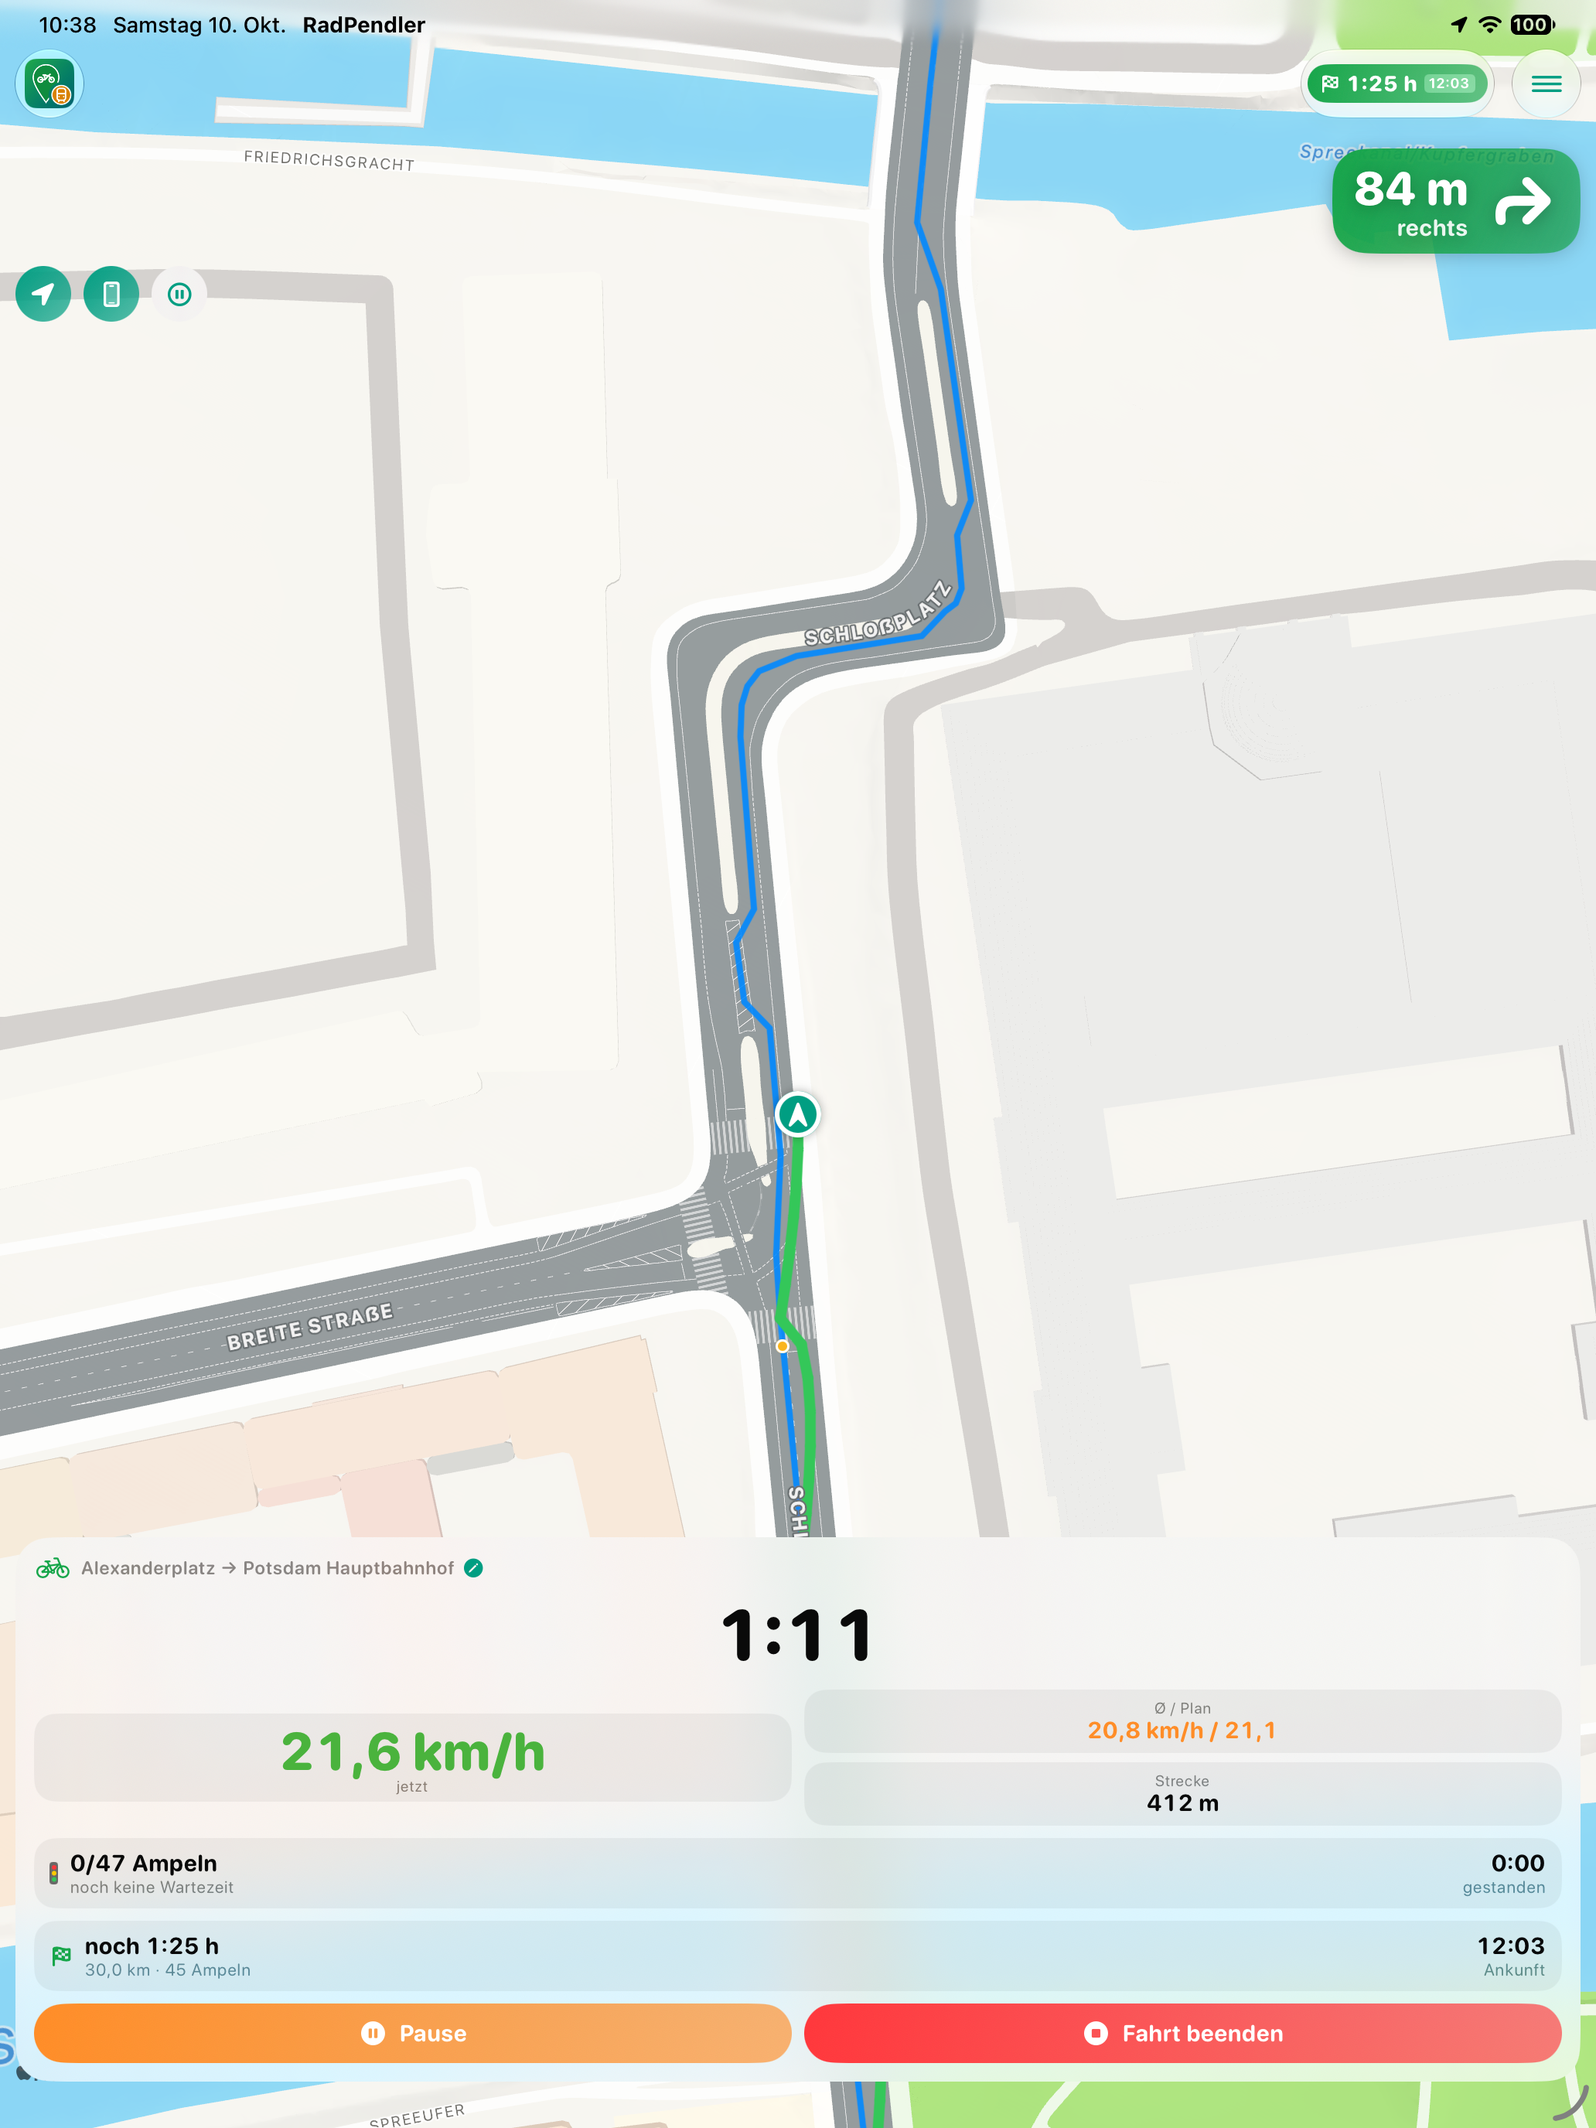
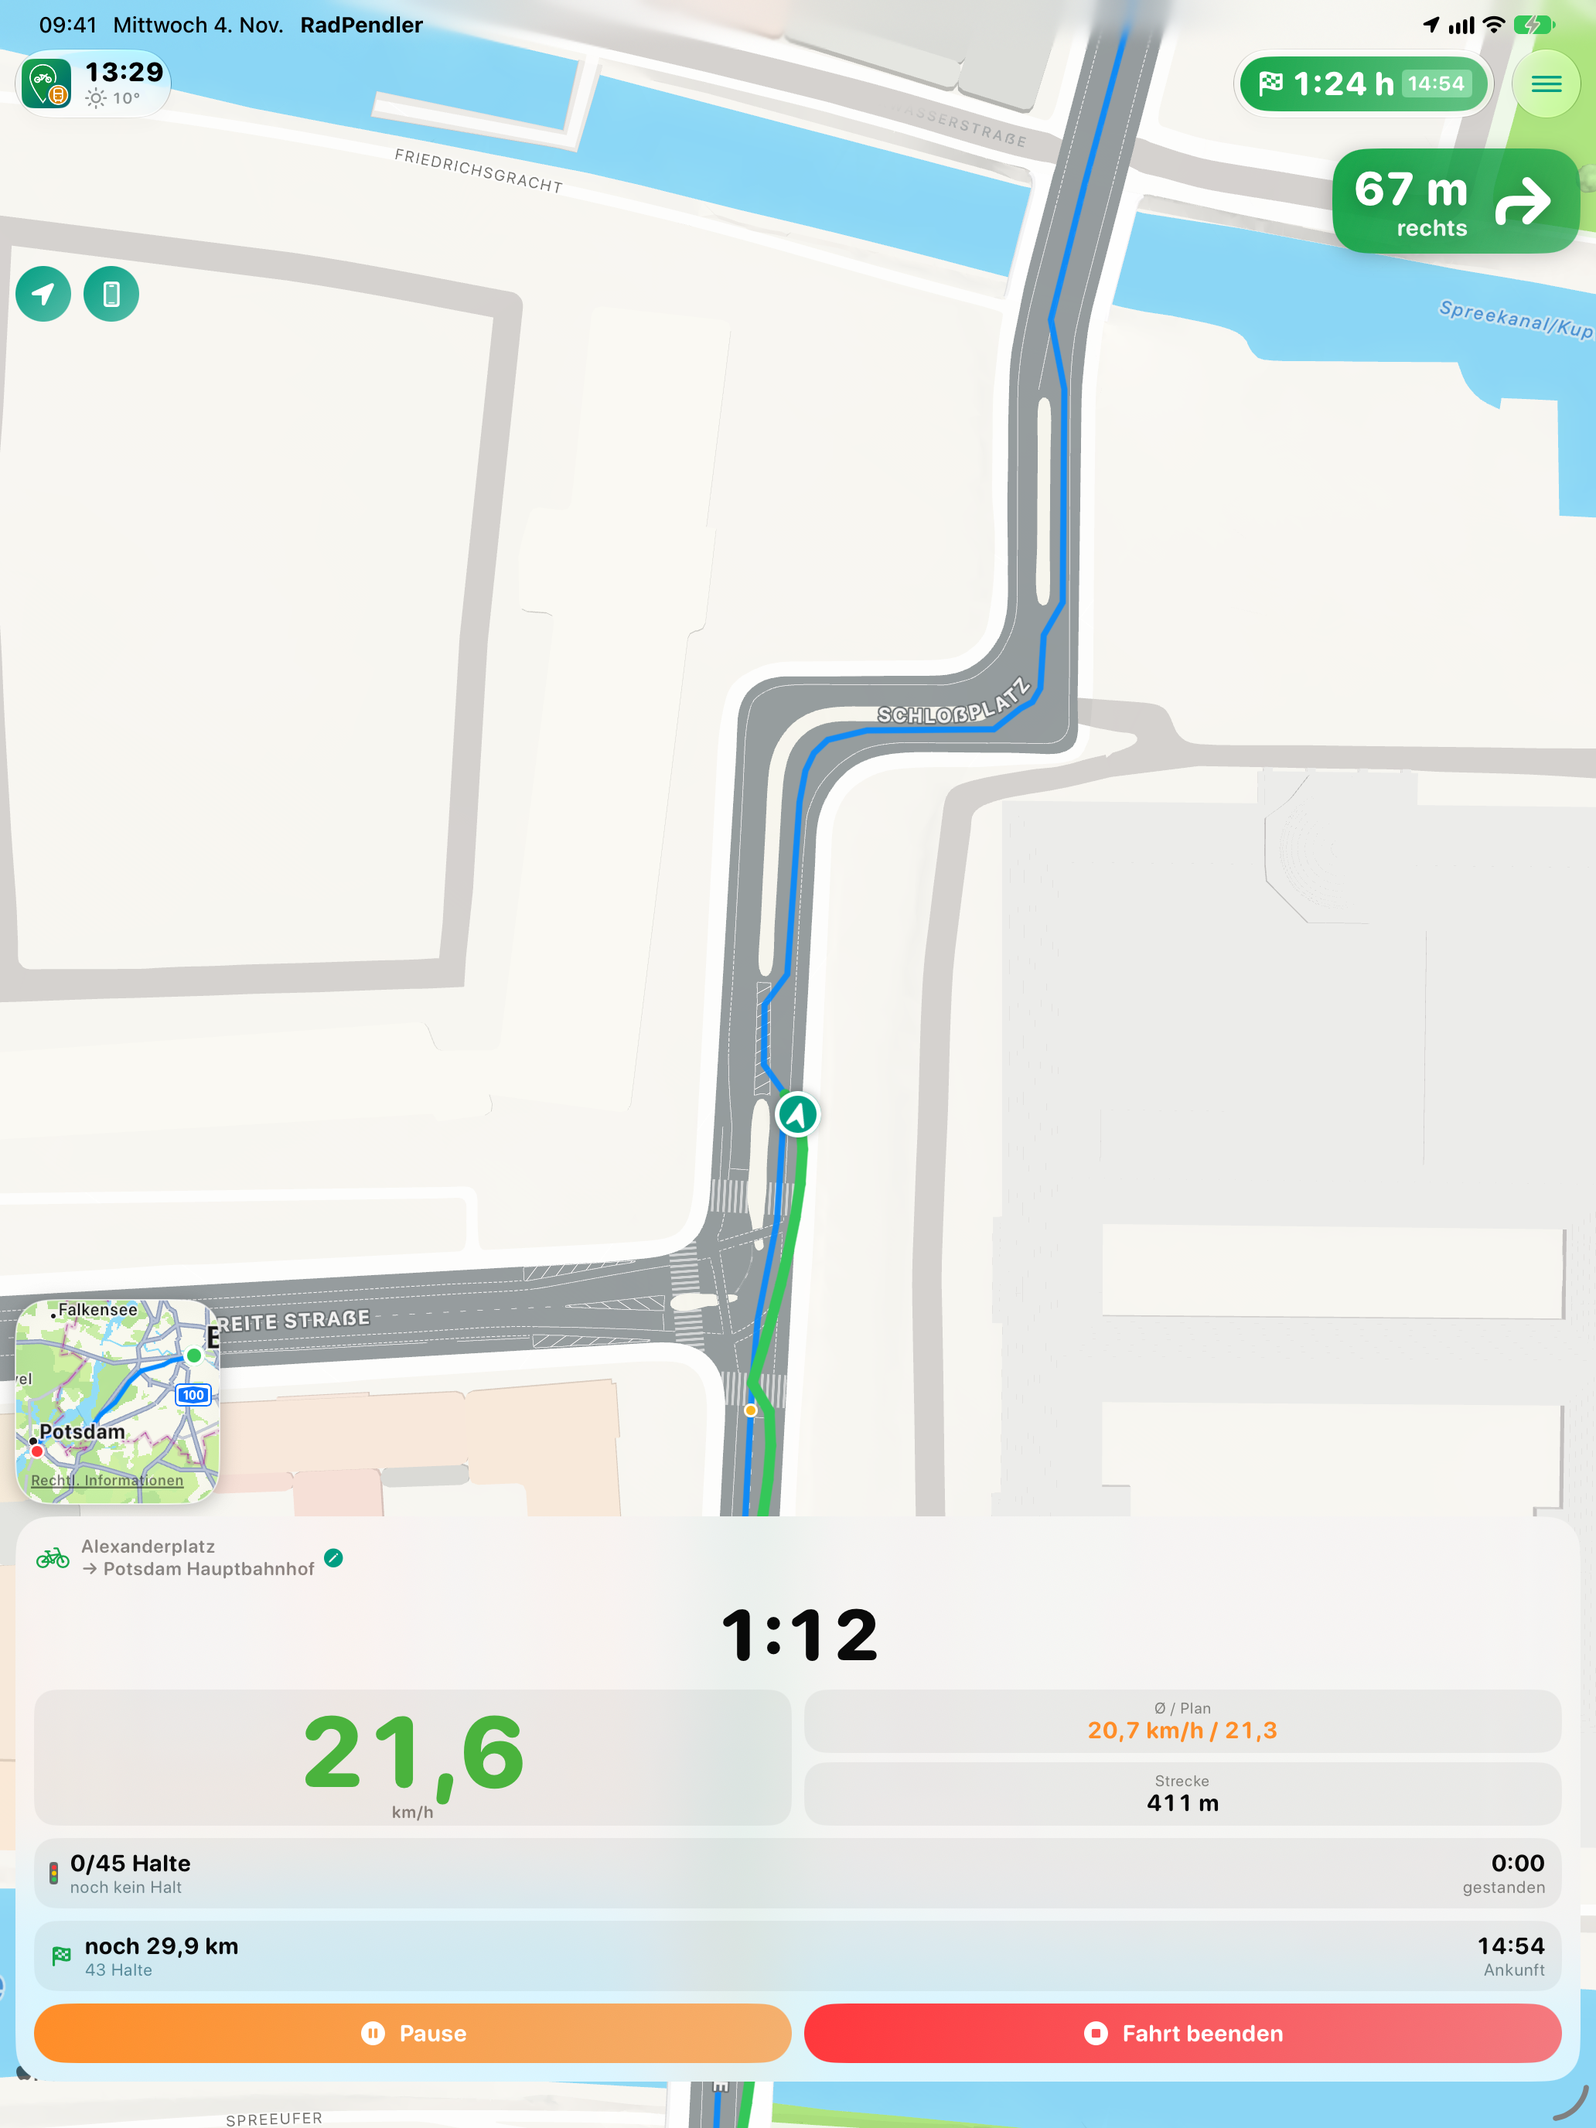
Store: Paket für 1.26
./dev shots (tools/store_shots.sh): iPhone 6,3″ und 6,9″, iPad 13″ auf eigenen RP-Simulatoren;
6,5″-Satz entfällt. Was ist neu 1.26 (seit Store-Fassung 1.21), Beschreibung unter 4000,
Fußweg/Leihroller in beiden Sprachen, Einreichungs-Checkliste 1.26,
appstore/pages/veroeffentlichen.sh.

diff --git a/tools/store_package.py b/tools/store_package.py
@@ -14,7 +14,7 @@ from pathlib import Path
 ROOT = Path(__file__).resolve().parent.parent
 META = (ROOT / "appstore/metadata.md").read_text(encoding="utf-8")
 LIMITS = {"name": 30, "untertitel": 30, "werbetext": 170, "beschreibung": 4000, "keywords": 100, "was-ist-neu": 4000}
-SHOTS = {"iphone-6.3": (1206, 2622), "iphone-6.5": (1284, 2778), "ipad-13": (2064, 2752), "watch-46": (416, 496)}
+SHOTS = {"iphone-6.3": (1206, 2622), "iphone-6.9": (1320, 2868), "ipad-13": (2064, 2752), "watch-46": (416, 496)}
 
 
 def setting(key):
@@ -121,8 +121,8 @@ ist eine Datei zum Kopieren, die Bilder liegen in der Reihenfolge ihrer Dateinum
 2. Je Sprache (Deutsch, Englisch USA): Werbetext, Beschreibung, Keywords und „Neue Funktionen“
    aus `de/` bzw. `en/` einfügen. Name und Untertitel nur, wenn sie sich geändert haben.
 3. Screenshots: die alten im Schacht löschen, dann `screenshots/iphone-6.3/` (1206 × 2622) in den
-   Schacht „iPhone 6,1″ oder 6,3″“ — bietet App Store Connect stattdessen 6,5″ an, dorthin
-   `screenshots/iphone-6.5/` (1284 × 2778). Ein Satz genügt, die Größe muss zum Schacht passen.
+   Schacht „iPhone mit Dynamic Island (mittleres Display)“ — verlangt App Store Connect den großen,
+   dorthin `screenshots/iphone-6.9/` (1320 × 2868). Die Größe muss zum Schacht passen.
    `screenshots/ipad-13/` in den 13″-Schacht, `screenshots/watch-46/` zur Apple Watch.
    Bilder für das iPhone Duo sind erst für Einreichungen ab April 2027 Pflicht.
 4. „Kopfzeile und Suchergebnisse“ leer lassen — freiwillige Werbeflächen.

diff --git a/appstore/metadata.md b/appstore/metadata.md
@@ -10,7 +10,23 @@ Fassung von Name, Untertitel, Keywords und Beschreibung steht am Ende und
 gehört in die Lokalisierung **Englisch (USA)**, damit die Seite in Stores
 außerhalb Deutschlands nicht leer aussieht.
 
-## Einreichungs-Checkliste (1.18, Build 58 — die einzureichende Fassung)
+## Einreichungs-Checkliste (1.26, Build 66 — die einzureichende Fassung)
+
+Im Store steht 1.21 (freigegeben 15.10.2026); 1.22 bis 1.25 waren nur TestFlight. Muss vor dem
+30.11.2026 freigegeben sein — ab dann finden ältere Fassungen für Adressen keine VBB-Verbindung.
+Paket: `/storepaket` → `build/storepaket-1.26/` (Felder, Bilder, `LIESMICH.md`).
+
+1. **Build 1.26 (66)** auswählen — seit dem 02.11.2026 in TestFlight.
+2. **Screenshots neu, 04.11.2026, `./dev shots`**: `screenshots/iphone-6.3/` in „iPhone mit
+   Dynamic Island (mittleres Display)“, `screenshots/iphone-6.9/` (1320 × 2868) nur, wenn der
+   große Schacht verlangt wird; der 6,5″-Satz ist entfallen. `ipad-13/` wie gehabt, `watch-46/`
+   unverändert vom 10.10.2026 (die vier gezeigten Uhrseiten sind seither gleich).
+3. **Was ist neu** — Text unten, **für 1.26**, deutsch und englisch.
+4. Hinweis an die Prüfung, Kategorie, Alter, URLs wie 1.18.
+5. App-Datenschutz unverändert. Neu angesprochen: `vbb.hafas.cloud` (VBB, ab 30.11.), die
+   Leihgeräte kommen über Transitous; die Datenschutzseite nennt beides, veröffentlicht 04.11.2026.
+
+## Einreichungs-Checkliste (1.18, Build 58)
 
 Was seit der 1.8.1-Liste dazugekommen ist; alles andere gilt wie dort. Im Store steht 1.13;
 1.14 bis 1.17 waren nur TestFlight.
@@ -197,7 +213,7 @@ neu ist, nicht was immer gilt.
 
 ## Beschreibung (max 4000)
 
-Länge: **3998** von 4000 Zeichen. Stand 1.18.
+Länge: **3991** von 4000 Zeichen. Stand 1.26.
 
 ```
 Wie kommst du heute zur Arbeit?
@@ -205,9 +221,6 @@ Wie kommst du heute zur Arbeit?
 RadPendler rechnet dieselbe Strecke auf vier Arten und stellt sie
 nebeneinander: Rad, Rad und Bahn, Auto, Bus & Bahn. Vier Kästen, vier
 Fahrzeiten, ein Stern an dem, der heute gewinnt — auf einer Seite.
-
-Gebaut für einen echten Arbeitsweg — und sie sagt, was sie nicht weiß, statt
-zu raten.
 
 DIE VIER WEGE
 • Fahrrad in vier Linien: schnellst, kürzest, ruhig (über Fahrradstraßen) und
@@ -217,7 +230,9 @@ DIE VIER WEGE
   radelt weiter
 • Auto: optimal, schnellst, kürzest oder wenig Ampeln — jede Linie, die
   Apple Karten anbietet, nicht nur die schnellste
-• Bus & Bahn: die Fahrplanverbindung mit Umstiegen, Gleisen und Echtzeit
+• Bus & Bahn: die Fahrplanverbindung mit Umstiegen, Gleisen und Echtzeit;
+  der Fußweg zur Haltestelle auf echten Wegen, auf Wunsch nur beleuchtet
+  oder mit Leihroller
 
 AMPELN, DIE MITZÄHLEN
 Eine Radzeit ohne Ampeln ist eine Radzeit für ein leeres Land. RadPendler holt
@@ -239,8 +254,7 @@ Schnitt neben dem geplanten, die Restzeit mit Ankunftszeit und die Ampeln als
 „3/18“ samt der Zeit, die du an ihnen gestanden hast. Wer vom Weg abkommt,
 sieht, wie weit — und bekommt eine neue Route in Fahrtrichtung. „Pause“ für
 die gewollte Unterbrechung; von selbst hält die Aufzeichnung an, wenn du lange
-stehst, und läuft weiter, sobald es weitergeht. Der Bildschirm dunkelt ab,
-solange niemand ihn anfasst, und bleibt am Ladekabel hell.
+stehst, und läuft weiter, sobald es weitergeht.
 
 REGEN, WO DU FÄHRST
 Nicht „Regenwahrscheinlichkeit 40 %“, sondern Regen an den Punkten deiner
@@ -261,7 +275,8 @@ zu ist.
 BUNDESWEIT, DEUTSCH UND ENGLISCH
 In Berlin und Brandenburg antwortet der VBB — genauer, und als Einziger sagt
 er je Zug, ob Räder mitdürfen. Alles darüber hinaus beantwortet
-Transitous, die MOTIS-Instanz auf dem bundesweiten DELFI-Datensatz. Die Sprache stellst du im Menü um, ohne Neustart.
+Transitous auf dem bundesweiten DELFI-Datensatz. Die Sprache stellst du im
+Menü um, ohne Neustart.
 
 iPAD UND APPLE WATCH
 Auf dem iPad steht alles nebeneinander: links Adressen, Zeitwahl, die vier
@@ -285,6 +300,78 @@ BRouter und Overpass auf OpenStreetMap-Daten (© OpenStreetMap-Mitwirkende,
 ODbL), Deutscher Wetterdienst und Open-Meteo.
 
 Alle Zeiten ohne Gewähr.
+```
+
+## Was ist neu (1.26)
+
+Für das Feld „Neue Funktionen“ der Version 1.26 (DE 1848, EN 1802 Zeichen, max 4000). Deckt alles
+seit 1.21 ab — das ist die Fassung im Store (iTunes-Abfrage am 04.11.2026, freigegeben 15.10.2026);
+1.22 bis 1.25 waren nur TestFlight.
+
+```
+• Bereit für den neuen VBB-Fahrplanserver: Ab dem 30. November findet die App
+  Bus- und Bahnverbindungen über das neue System — ältere Fassungen finden
+  dann für Adressen keine VBB-Verbindung mehr. Bitte aktualisieren.
+• Fußweg zur Haltestelle auf echten Wegen: Der Weg zur ersten Haltestelle und
+  von der letzten zum Ziel wird über Straßen und Wege geplant, nicht mehr als
+  Luftlinie.
+• Neu: „Nur beleuchtete Wege“ — im Dunkeln meidet der Fußweg unbeleuchtete
+  Wege. Wo trotzdem dunkle Meter dabei sind, sagt es die Fahrt.
+• Neu: „Leihroller und -räder zur Haltestelle“ — die App zeigt zusätzlich die
+  beste Verbindung mit Leihroller oder Leihrad, wenn sie früher ankommt, und
+  öffnet das Fahrzeug direkt in der App des Anbieters.
+• Bus & Bahn und Rad + Bahn zeigen ihre Wegeanteile als Balken wie die
+  Radroute: Fußweg, unbeleuchtet, Leihgerät, Rad, Bahn, Bus.
+• Die Pille oben links zeigt das Wetter deiner Strecke: Temperatur und ob und
+  ab wann es regnet. Während der Fahrt stehen dort Uhrzeit, Akku und Wetter.
+• Während der Fahrt zeigt die Übersichtskarte die ganze Strecke, das
+  Regenradar von jetzt und die gefahrene Linie. Pfeil und Karte gleiten
+  flüssig statt zu springen — auch im Auto.
+• Aufgeräumter Fahrtbildschirm: Start und Ziel in zwei Zeilen, verbleibende
+  Kilometer im Kasten, Restzeit und Ankunft größer.
+• Am Ziel angekommen, dreht sich die Richtung sofort für den Rückweg.
+• Start und Ziel zählen nicht mehr als Halt — auch nicht in der Heatmap.
+• „Fahrt beenden?“ sagt, wo die Fahrt bleibt: auf deinen Geräten und in deiner
+  privaten iCloud, und wozu sie hilft.
+• Kurze Stücke Kopfsteinpflaster (bis 200 m) kosten eine sonst gute Radlinie
+  nicht mehr ihren Platz; längere meidet die App weiter.
+• Behoben: Nach einer Wende konnte die Neuplanung ausbleiben und die Route auf
+  der Gegenrichtung stehen bleiben.
+```
+
+English:
+
+```
+• Ready for the new VBB timetable server: from 30 November the app finds bus
+  and train connections on the new system — older versions will then find no
+  VBB connection for addresses. Please update.
+• Walking to the stop along real paths: the walk to the first stop and from
+  the last one to your destination is now routed along streets and paths
+  instead of a straight line.
+• New: “Lit paths only” — after dark, the walk avoids unlit paths. Where unlit
+  metres remain, the trip says so.
+• New: “Rental scooters and bikes to the stop” — the app also shows the best
+  connection with a rental scooter or bike when it arrives earlier, and opens
+  the vehicle right in the provider’s app.
+• Transit and Bike + rail show what the trip is made of as a bar, like the
+  bike route: walk, unlit, rental, bike, train, bus.
+• The pill at the top left shows the weather on your route: temperature and
+  whether and when it will rain. While riding it shows time, battery and
+  weather.
+• While riding, the overview map shows the whole trip, the current rain radar
+  and the track so far. Arrow and map glide smoothly instead of jumping — in
+  the car, too.
+• A tidier ride screen: start and destination on two lines, remaining
+  kilometres in the box, time left and arrival larger.
+• Once you arrive, the direction flips right away for the way back.
+• Start and destination no longer count as stops — not in the heat map
+  either.
+• “End the ride?” tells you where the ride is kept — on your devices and in
+  your private iCloud — and what it is good for.
+• Short stretches of cobblestones (up to 200 m) no longer cost an otherwise
+  good bike line its place; longer ones are still avoided.
+• Fixed: after turning around, the new route could fail to appear and the old
+  one stayed on the opposite direction.
 ```
 
 ## Was ist neu (1.18)
@@ -714,9 +801,9 @@ beiden Schächte annimmt, sind kurz; alles andere wird beim Hochladen abgelehnt:
 
 | Geräteklasse | Simulator | Größe | Ordner |
 |---|---|---|---|
-| iPhone 6,1″/6,3″ | iPhone 17 | 1206 × 2622 | `screenshots/iphone-6.3/` |
-| iPhone 6,5″ | DF-iphone65 (iPhone 13 Pro Max) | 1284 × 2778 | `screenshots/iphone-6.5/` |
-| iPad 13″ | iPad Pro 13-inch (M5) | 2064 × 2752 | `screenshots/ipad-13/` |
+| iPhone 6,1″/6,3″ | RP iPhone 17 Pro | 1206 × 2622 | `screenshots/iphone-6.3/` |
+| iPhone 6,9″ | RP iPhone 17 Pro Max | 1320 × 2868 | `screenshots/iphone-6.9/` |
+| iPad 13″ | RP iPad Pro 13 | 2064 × 2752 | `screenshots/ipad-13/` |
 | Apple Watch 46 mm | Apple Watch Series 11 (46mm) | 416 × 496 | `screenshots/watch-46/` |
 
 Die Größe muss zum Schacht passen: der 6,5″-Satz im 6,1″/6,3″-Schacht wird abgelehnt
@@ -760,6 +847,15 @@ gehen in die nächste Planung ein. Deshalb gehört sie in die Bilder — ohne si
 sieht die App wie ein reiner Planer aus.
 
 ### Neu aufnehmen
+
+**Seit 04.11.2026 in einem Befehl: `./dev shots [iphone-6.3|iphone-6.9|ipad-13]`**
+(`tools/store_shots.sh`) — eigene Simulatoren `RP …`, Adressen, Ortung und zwei Läufe je Gerät wie
+unten beschrieben, Bilder ohne Alphakanal nach `screenshots/<schacht>/`. Die Uhr bleibt von Hand.
+Steht in `3-fahrt` „Ampeln und Hauptstraßen unbekannt“, war Overpass überlastet (am 04.11. 28–40 s
+je Abfrage, die App gibt nach 30 s auf): den Ordner `Library/Caches/osm-roads` aus dem Container
+eines Geräts mit Ampeln in die anderen kopieren und neu aufnehmen.
+
+Von Hand, wie es das Skript tut:
 
 Die Aufnahmen macht `RadPendlerUITests/ScreenshotTests` — ein eigenes Schema
 `RadPendlerShots`, damit `./dev test` schnell bleibt. Es tippt sich durch die
@@ -962,7 +1058,8 @@ THE FOUR WAYS
 • Car: best, fastest, shortest or fewest lights — every line Apple Maps
   offers, not only the quickest
 • Bus and train: the plain timetable connection, with changes, platforms and
-  real-time data as far as the service gives it
+  real-time data as far as the service gives it; the walk to the stop along real
+  paths, lit paths only if you like, or by rental scooter
 
 TRAFFIC LIGHTS THAT COUNT
 A cycling time without traffic lights is a cycling time for an empty country.

diff --git a/CLAUDE.md b/CLAUDE.md
@@ -4,7 +4,7 @@ Multimodaler Pendel-Planer (iPhone, iPad, Watch). SwiftUI, XcodeGen, iOS 17+, `d
 
 **Wiedereinstieg: Kopf von `HANDOVER.md` lesen.** Dort stehen Stand, Build und die offene Prüfliste.
 
-- Einziger Einstieg ist `./dev` (`generate|build|test|lint|check|rules|routes|store|demo|open|clean|testflight`). Kein eigenes
+- Einziger Einstieg ist `./dev` (`generate|build|test|lint|check|rules|routes|store|shots|demo|open|clean|testflight`). Kein eigenes
   `-derivedDataPath` — Xcode und Kommandozeile teilen sich die Standard-DerivedData.
 - Tests: `./dev test` (~380 Tests, rund 10 s). `MOTIS_LIVE=1` schaltet den echten Transitous-Aufruf zu,
   `TEST_RUNNER_VBB_LIVE=1 ./dev test` den echten Aufruf der VBB-API.
@@ -23,6 +23,9 @@ Multimodaler Pendel-Planer (iPhone, iPad, Watch). SwiftUI, XcodeGen, iOS 17+, `d
 - Store-Paket: `./dev store` baut aus `appstore/metadata.md` `build/appstore-<version>/` und ein Zip
   (jedes Feld als Datei, DE und EN, Screenshots, Prüfhinweis) und bricht ab, wenn ein Feld über seiner
   Grenze liegt. Lädt nichts hoch. Die Texte werden nur in `metadata.md` geändert.
+- Store-Bilder: `./dev shots [iphone-6.3|iphone-6.9|ipad-13]` (`tools/store_shots.sh`, eigene RP-Simulatoren,
+  rund 8 min je Gerät, braucht Netz); Paket mit Skill `/storepaket`. Support-/Datenschutzseite veröffentlichen:
+  `appstore/pages/veroeffentlichen.sh`.
 - Leerer Simulator: `./dev demo [anzahl]` legt erfundene Fahrten an (nur Debug, `DemoRides`), damit
   Fahrtenliste und Heatmap etwas zeigen; `DEMO_DEVICE="…"` wählt das Gerät. Ansehen mit `simweb radpendler`.
 - Ausliefern nur auf Ansage: `./dev testflight [version]` bzw. Skill `/testflight`.
